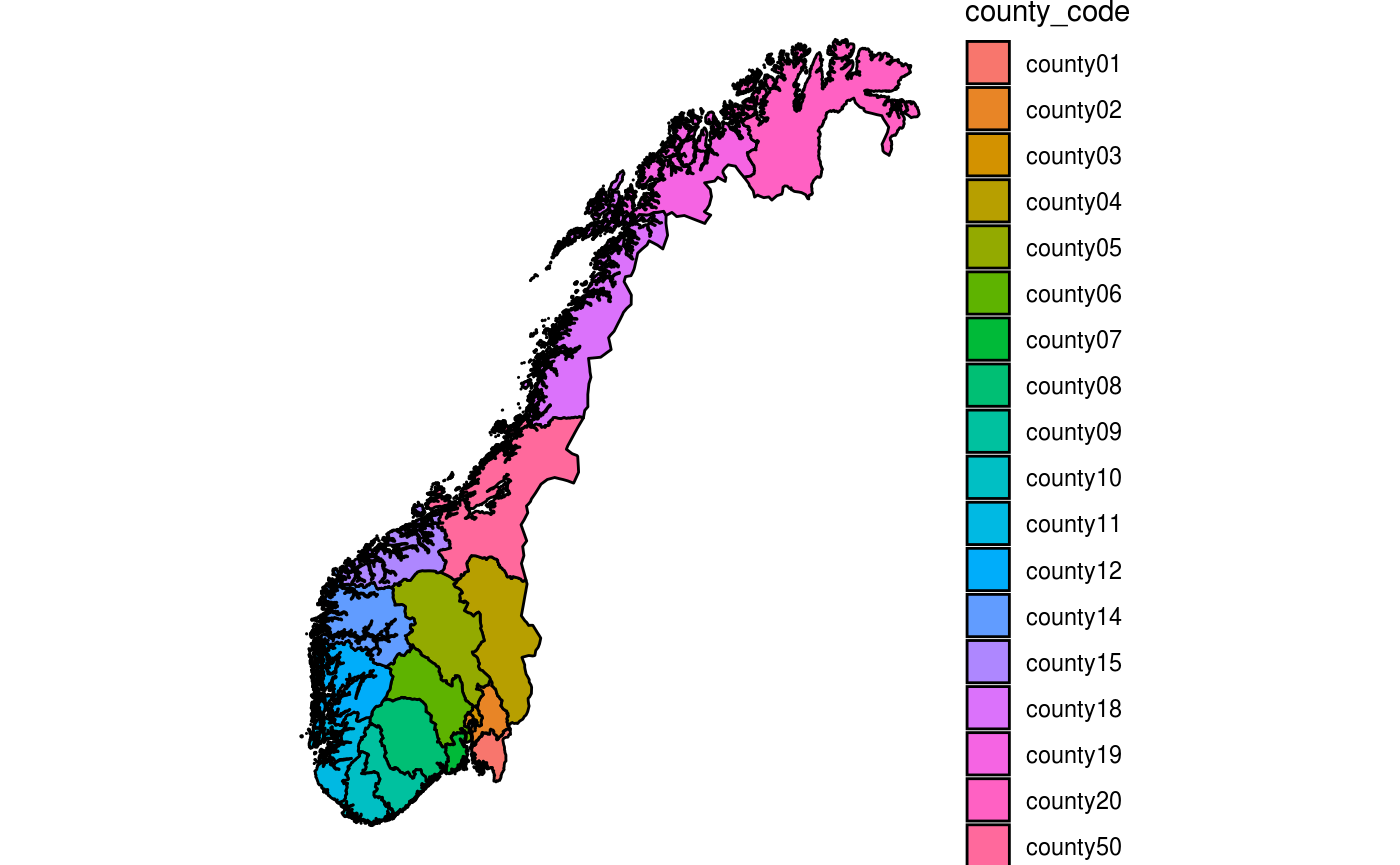
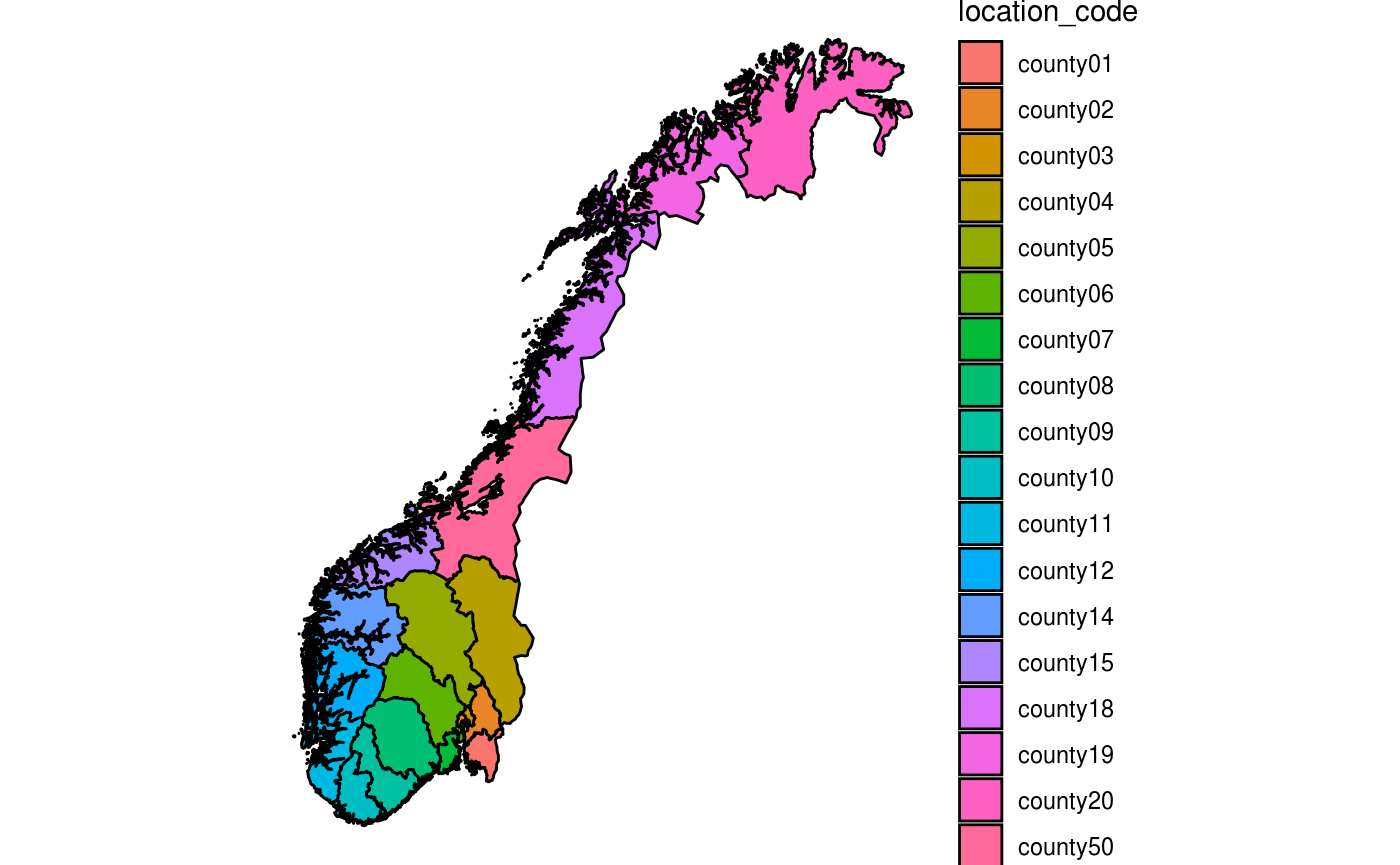
Deploy folkehelseinstituttet/fhidata to github.com/folkehelseinstituttet/fhidata.git:gh-pages

Changed region(s): [[0.215, 0.0, 0.8293, 1.0]]

diff --git a/articles/Datasets.html b/articles/Datasets.html
@@ -215,7 +215,7 @@
 <a class="sourceLine" id="cb3-4" data-line-number="4">pd &lt;-<span class="st"> </span>fhidata<span class="op">::</span><span class="kw"><a href="https://www.rdocumentation.org/packages/fhidata/topics/get_data">get_data</a></span>(<span class="st">"norway_map_counties"</span>)</a>
 <a class="sourceLine" id="cb3-5" data-line-number="5"></a>
 <a class="sourceLine" id="cb3-6" data-line-number="6">q &lt;-<span class="st"> </span><span class="kw"><a href="https://www.rdocumentation.org/packages/ggplot2/topics/ggplot">ggplot</a></span>()</a>
-<a class="sourceLine" id="cb3-7" data-line-number="7">q &lt;-<span class="st"> </span>q <span class="op">+</span><span class="st"> </span><span class="kw"><a href="https://www.rdocumentation.org/packages/ggplot2/topics/geom_polygon">geom_polygon</a></span>(<span class="dt">data =</span> pd, <span class="kw"><a href="https://www.rdocumentation.org/packages/ggplot2/topics/aes">aes</a></span>( <span class="dt">x =</span> long, <span class="dt">y =</span> lat, <span class="dt">group =</span> group, <span class="dt">fill=</span>county_code), <span class="dt">color=</span><span class="st">"black"</span>)</a>
+<a class="sourceLine" id="cb3-7" data-line-number="7">q &lt;-<span class="st"> </span>q <span class="op">+</span><span class="st"> </span><span class="kw"><a href="https://www.rdocumentation.org/packages/ggplot2/topics/geom_polygon">geom_polygon</a></span>(<span class="dt">data =</span> pd, <span class="kw"><a href="https://www.rdocumentation.org/packages/ggplot2/topics/aes">aes</a></span>( <span class="dt">x =</span> long, <span class="dt">y =</span> lat, <span class="dt">group =</span> group, <span class="dt">fill=</span>location_code), <span class="dt">color=</span><span class="st">"black"</span>)</a>
 <a class="sourceLine" id="cb3-8" data-line-number="8">q &lt;-<span class="st"> </span>q <span class="op">+</span><span class="st"> </span><span class="kw"><a href="https://www.rdocumentation.org/packages/ggplot2/topics/ggtheme">theme_void</a></span>()</a>
 <a class="sourceLine" id="cb3-9" data-line-number="9">q &lt;-<span class="st"> </span>q <span class="op">+</span><span class="st"> </span><span class="kw"><a href="https://www.rdocumentation.org/packages/ggplot2/topics/coord_map">coord_quickmap</a></span>()</a>
 <a class="sourceLine" id="cb3-10" data-line-number="10">q</a></code></pre></div>
